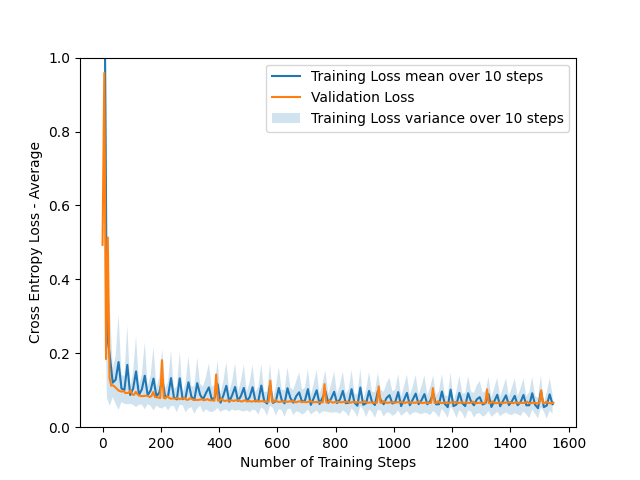
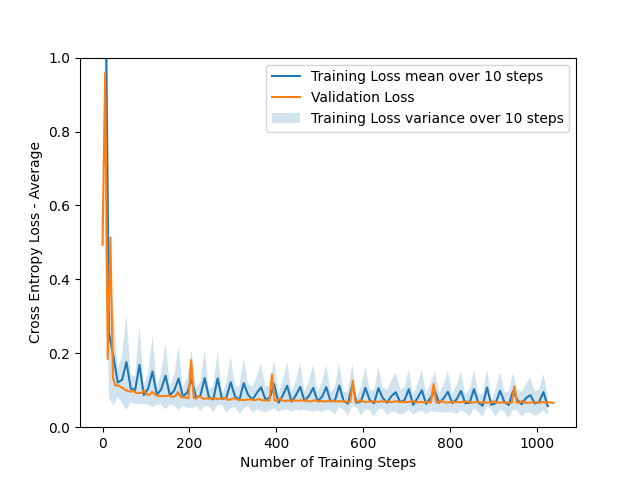
2d done

diff --git a/assignment1/trainer.py b/assignment1/trainer.py
@@ -73,6 +73,8 @@ class BaseTrainer:
         )
 
         global_step = 0
+        lowest_loss = 1
+        early_stop_counter = 0
         for epoch in range(num_epochs):
             train_loader = utils.batch_loader(
                 self.X_train, self.Y_train, self.batch_size, shuffle=self.shuffle_dataset)
@@ -90,5 +92,17 @@ class BaseTrainer:
 
                     # TODO (Task 2d): Implement early stopping here.
                     # You can access the validation loss in val_history["loss"]
+                    # Comment this out before creating plots for 2b and 2c
+                    # print(val_history['loss'])
+                    if lowest_loss > min(val_history["loss"].values()):
+                        lowest_loss = min(val_history["loss"].values())
+                        print("lowest loss: ", lowest_loss)
+                        early_stop_counter = 0
+                    else:
+                        early_stop_counter += 1
+                        if early_stop_counter >= 10:
+                            print("Early stop at epoch ", epoch)
+                            return train_history, val_history
+
                 global_step += 1
         return train_history, val_history

diff --git a/assignment1/task2.py b/assignment1/task2.py
@@ -70,7 +70,7 @@ class LogisticTrainer(BaseTrainer):
 
 if __name__ == "__main__":
     # hyperparameters DO NOT CHANGE IF NOT SPECIFIED IN ASSIGNMENT TEXT
-    num_epochs = 50
+    num_epochs = 500
     learning_rate = 0.05
     batch_size = 128
     shuffle_dataset = False
